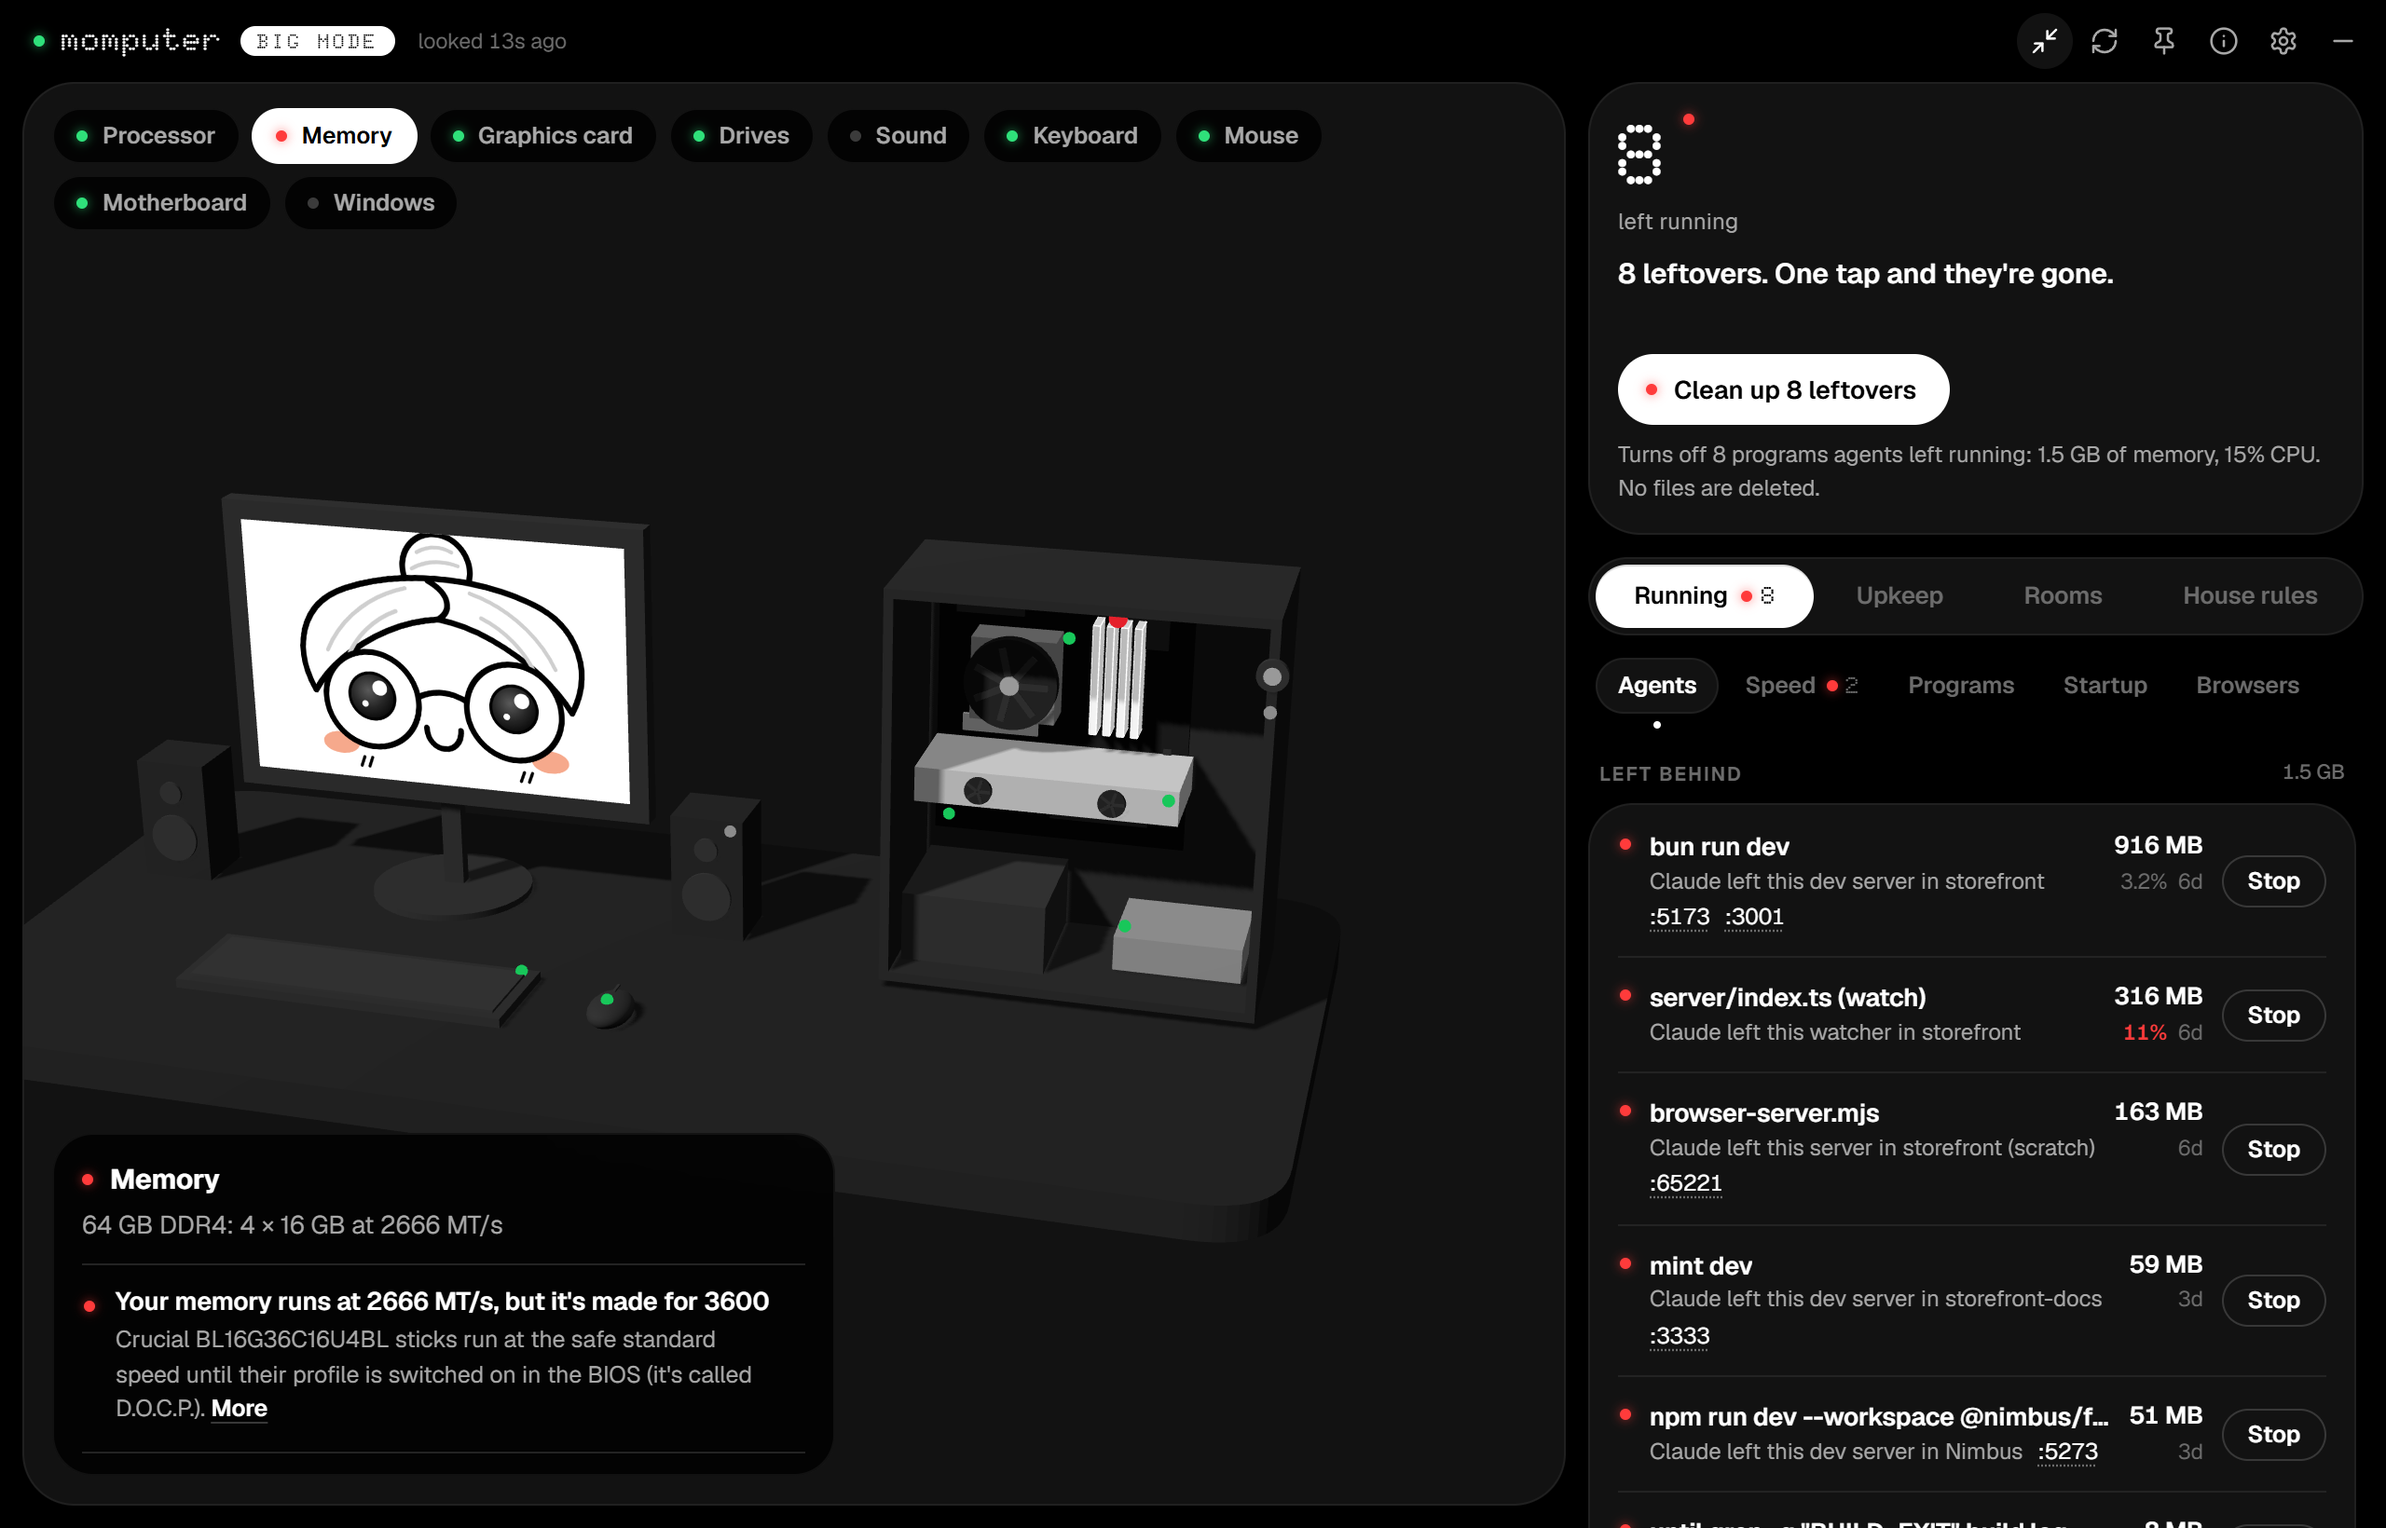
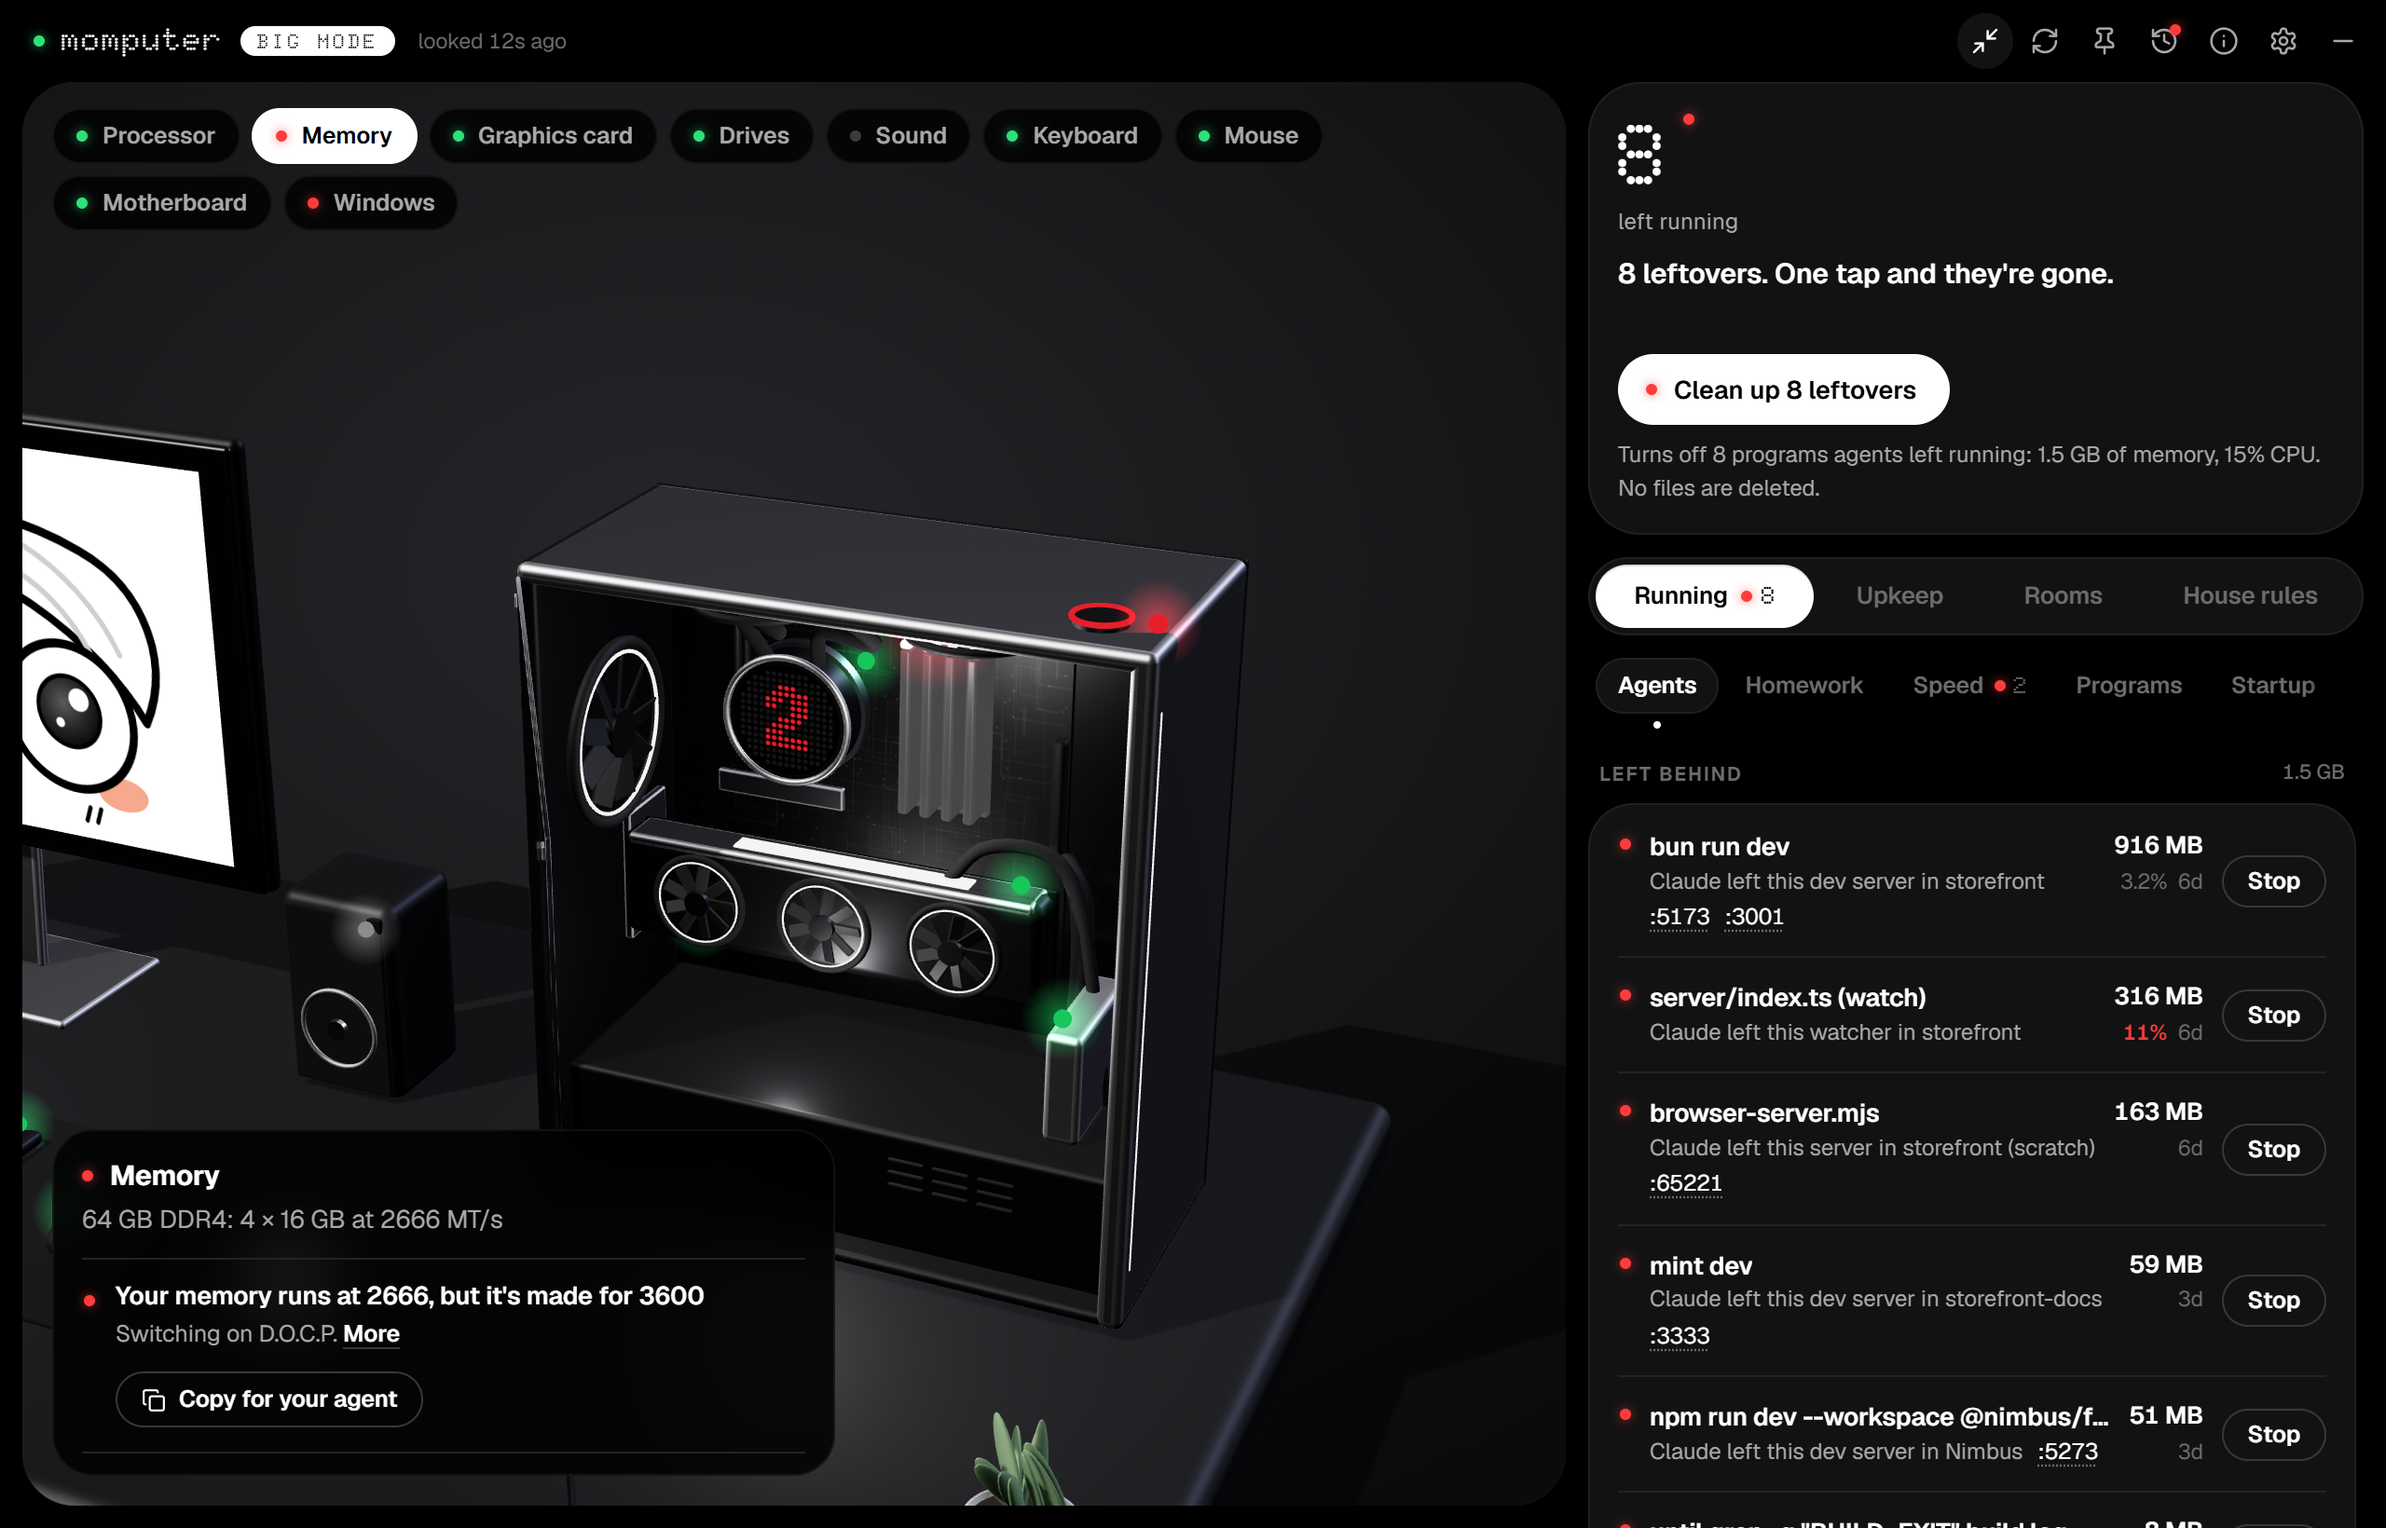
The site and README show the new BIG MODE desk and what 0.5.0 adds
New pictures of BIG MODE, taken from the app with its sample data. The site's More lists gain
Homework, setup weight, old drivers and downloads, Autopilot, What I did, the new computer
checks, Stability, Backups and keys; mom homework joins the commands, and the waiting note joins
the check-ins.

diff --git a/site/index.html b/site/index.html
@@ -125,6 +125,8 @@
                 <li>Programs, Startup and Browsers show what's open, what starts with Windows, and every browser extension, with a switch for each.</li>
                 <li>If leftovers start using a lot of CPU, she tells you. If you let her, she turns them off herself.</li>
                 <li>Agent health: every MCP server, hook and setting your agents have, and which servers answer or are waiting for a sign-in.</li>
+                <li>Homework: what each agent session changed, deleted, installed and pushed this week, beside what it told you.</li>
+                <li>Setup weight: how much every new chat starts with, and the heaviest part.</li>
               </ul>
             </details>
           </div>
@@ -145,6 +147,9 @@
                 <li>Apps: the apps and Steam games you haven't opened in a year, with how big each one is and where it lives.</li>
                 <li>Files: copies of the same file, and big files nobody opened in a year.</li>
                 <li>Old conversations aren't deleted. Mom moves them to another drive and leaves a link, so your agents still open them.</li>
+                <li>Old driver versions, and downloads you're done with.</li>
+                <li>Autopilot, off until you switch it on: once a week she clears the safe things herself.</li>
+                <li>What I did: everything mom did, day by day, with Undo where it can be undone.</li>
               </ul>
             </details>
           </div>
@@ -163,6 +168,10 @@
                 <li>An SSD's own health report: how much of its rated life is used, and how hot it runs.</li>
                 <li>Memory running below the speed it's made for.</li>
                 <li>Sound devices an uninstalled app left behind.</li>
+                <li>Screens below their refresh rate, devices with problems, slow starts, and what wakes the PC at night.</li>
+                <li>Stability: a month of crashes at a glance, and a week of watching after a memory or BIOS change.</li>
+                <li>Backups: folders nothing backs up, and work that exists only on this PC.</li>
+                <li>Keys left in your shell history or in files git keeps, with a button to blank them.</li>
                 <li>Fixes to your own settings are backed up and can be undone.</li>
               </ul>
             </details>
@@ -211,13 +220,13 @@
         <article class="tile card full">
           <div class="tile-text">
             <h3><span class="badge dot">BIG MODE</span></h3>
-            <p>One button turns the widget into a full window, with your PC on mom's desk, drawn with the parts it really has. Each part has a light. Tap one and mom tells you what's wrong and how to fix it. It's also where you read a skill, a hook or a settings file, with keys blanked.</p>
+            <p>One button turns the widget into a full window, with your PC on mom's desk, drawn with the parts it really has. Each part has a light, and the glass side swings open when you pick one inside. Tap one and mom tells you what's wrong and how to fix it. It's also where you read a skill, a hook or a settings file, with keys blanked.</p>
             <p class="go-live" id="go-big-row" hidden><button class="ghost" type="button" id="go-big"><span class="led green" aria-hidden="true"></span>Open it here</button></p>
           </div>
           <div class="tile-shots">
             <picture>
               <source media="(prefers-color-scheme: dark)" srcset="shots/big-dark-1280.webp 1280w, shots/big-dark.webp 2560w" sizes="(min-width: 1264px) 1116px, calc(100vw - 52px)">
-              <img src="shots/big-light-1280.webp" srcset="shots/big-light-1280.webp 1280w, shots/big-light.webp 2560w" sizes="(min-width: 1264px) 1116px, calc(100vw - 52px)" width="2560" height="1640" loading="lazy" alt="BIG MODE: a full window with mom on a monitor on her desk, next to an open PC tower with a small light on each part. A card tells you about the part you picked, and the widget's lists run down the right side.">
+              <img src="shots/big-light-1280.webp" srcset="shots/big-light-1280.webp 1280w, shots/big-light.webp 2560w" sizes="(min-width: 1264px) 1116px, calc(100vw - 52px)" width="2560" height="1640" loading="lazy" alt="BIG MODE: a full window with mom on a monitor on her desk, next to a PC tower with its glass side open and a small light on each part. A card tells you about the part you picked, and the widget's lists run down the right side.">
             </picture>
           </div>
         </article>
@@ -241,6 +250,7 @@
             <div><dt><code>mom pc</code></dt><dd>what the PC is, and its protection, updates and hardware</dd></div>
             <div><dt><code>mom tidy &lt;folder&gt;</code></dt><dd>grade a folder and list what to fix</dd></div>
             <div><dt><code>mom undo</code></dt><dd>undo the last tidy-up</dd></div>
+            <div><dt><code>mom homework</code></dt><dd>what each agent session did this week</dd></div>
           </dl>
           <p class="go"><a href="https://github.com/Thisisily/momputer/blob/main/docs/in-detail.md#the-mom-command">Every command</a></p>
         </article>
@@ -252,6 +262,7 @@
             <li><b>When a session starts</b> <span>She hands the agent the house rules.</span></li>
             <li><b>When the agent thinks it's done</b> <span>She asks about servers still running and new clutter in the project. She mentions each thing once.</span></li>
             <li><b>When the session ends</b> <span>She notes what it left behind.</span></li>
+            <li><b>When an agent is waiting for you</b> <span>She lets you know, if you switch it on.</span></li>
           </ul>
           <p class="small">They're hooks, for Claude Code and Codex. Switch them on under House rules, or run <code>mom install claude-hooks codex-hooks</code>.</p>
         </article>
